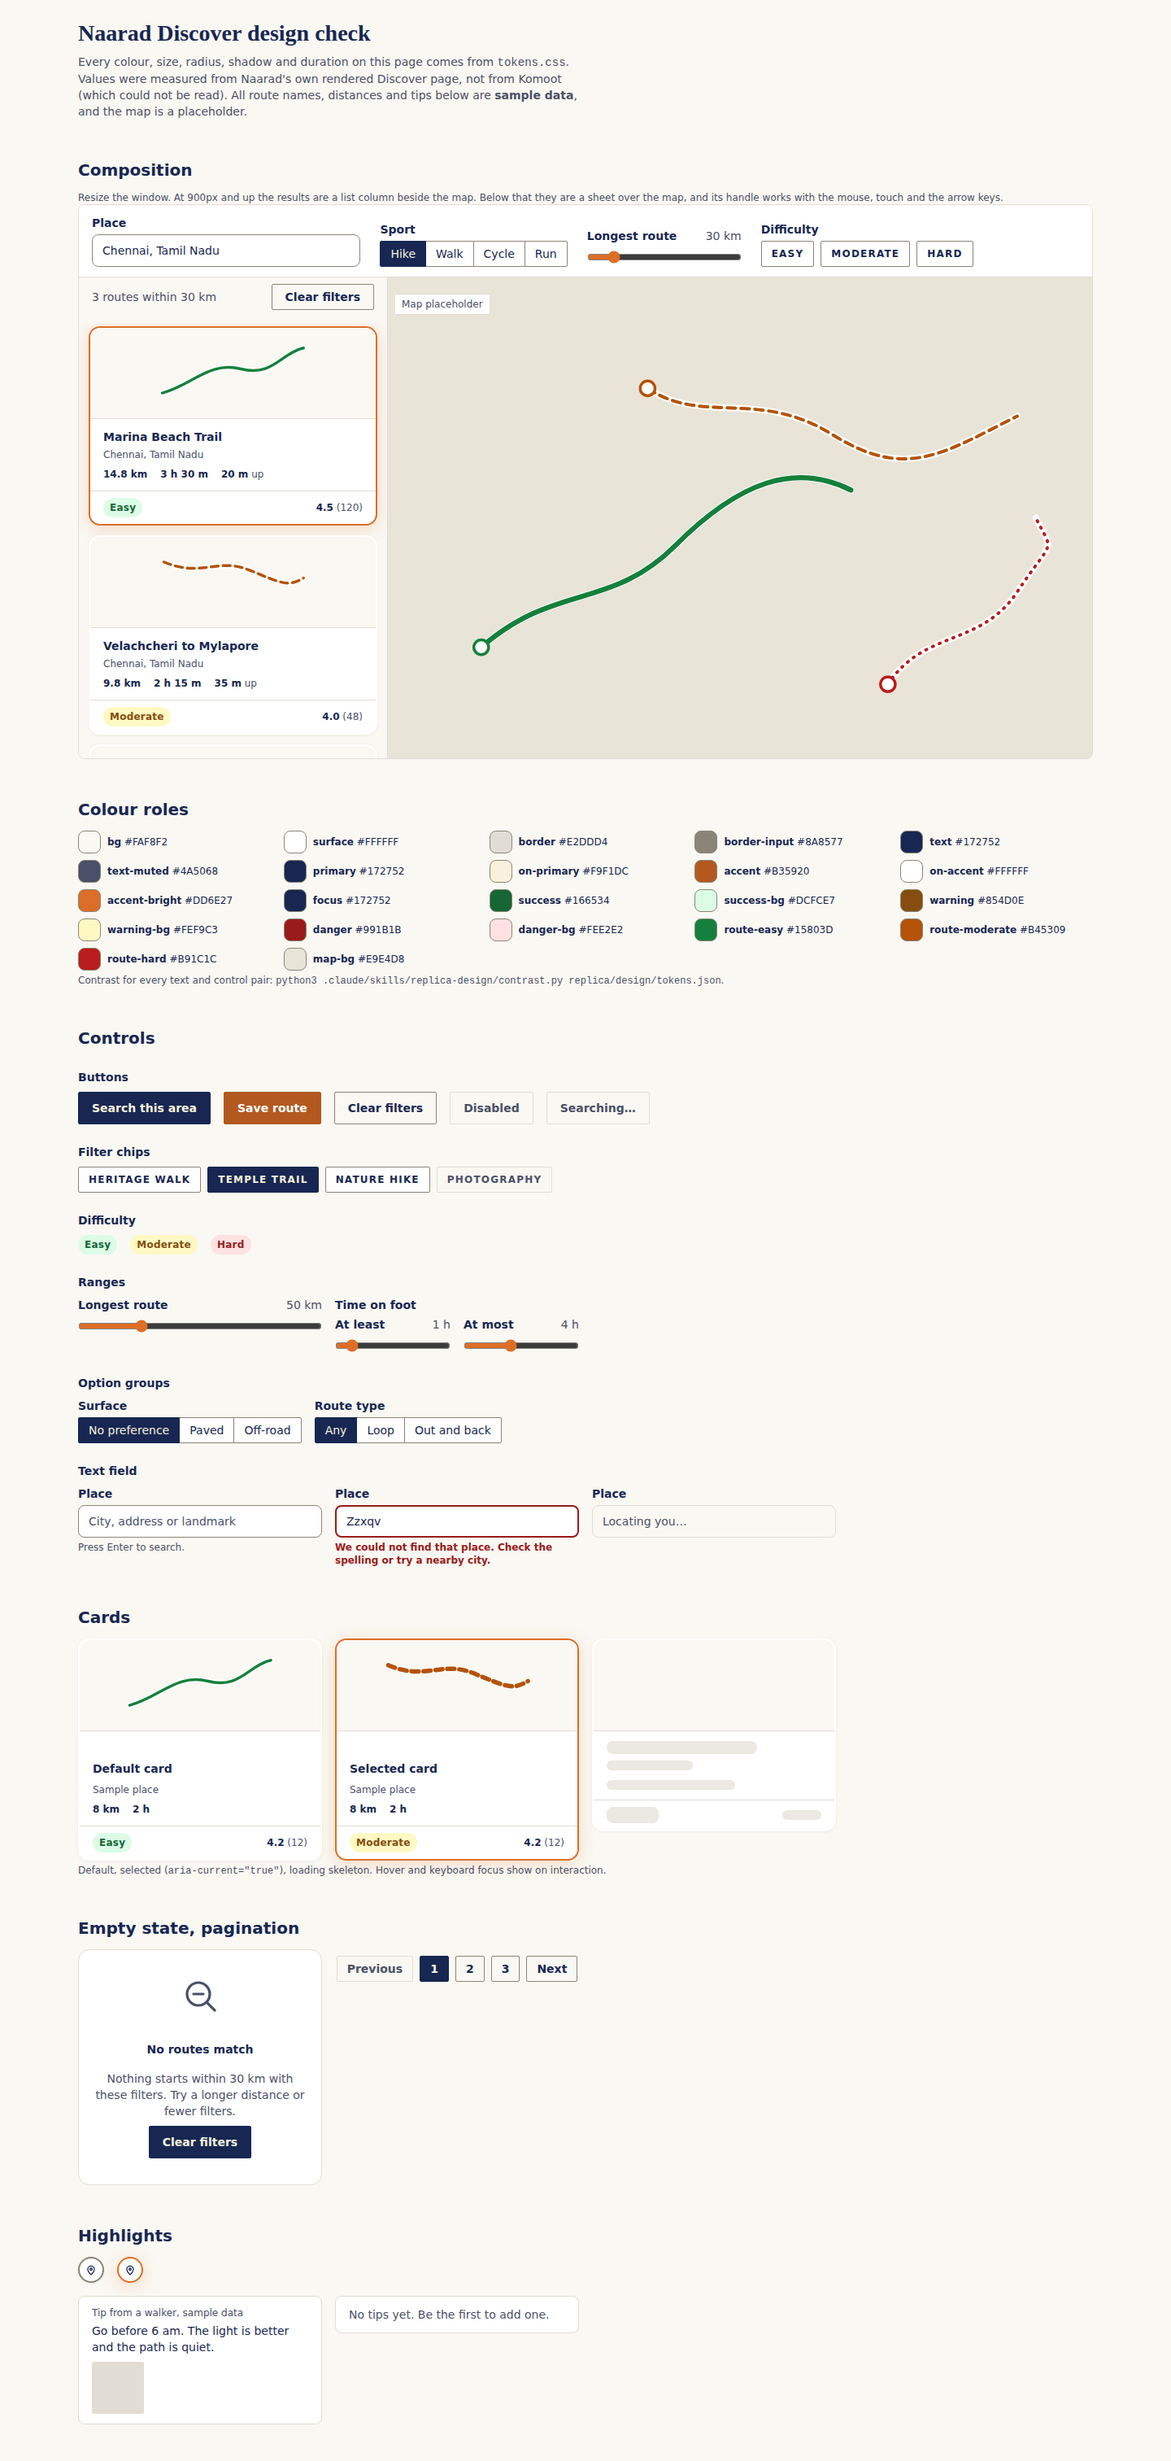
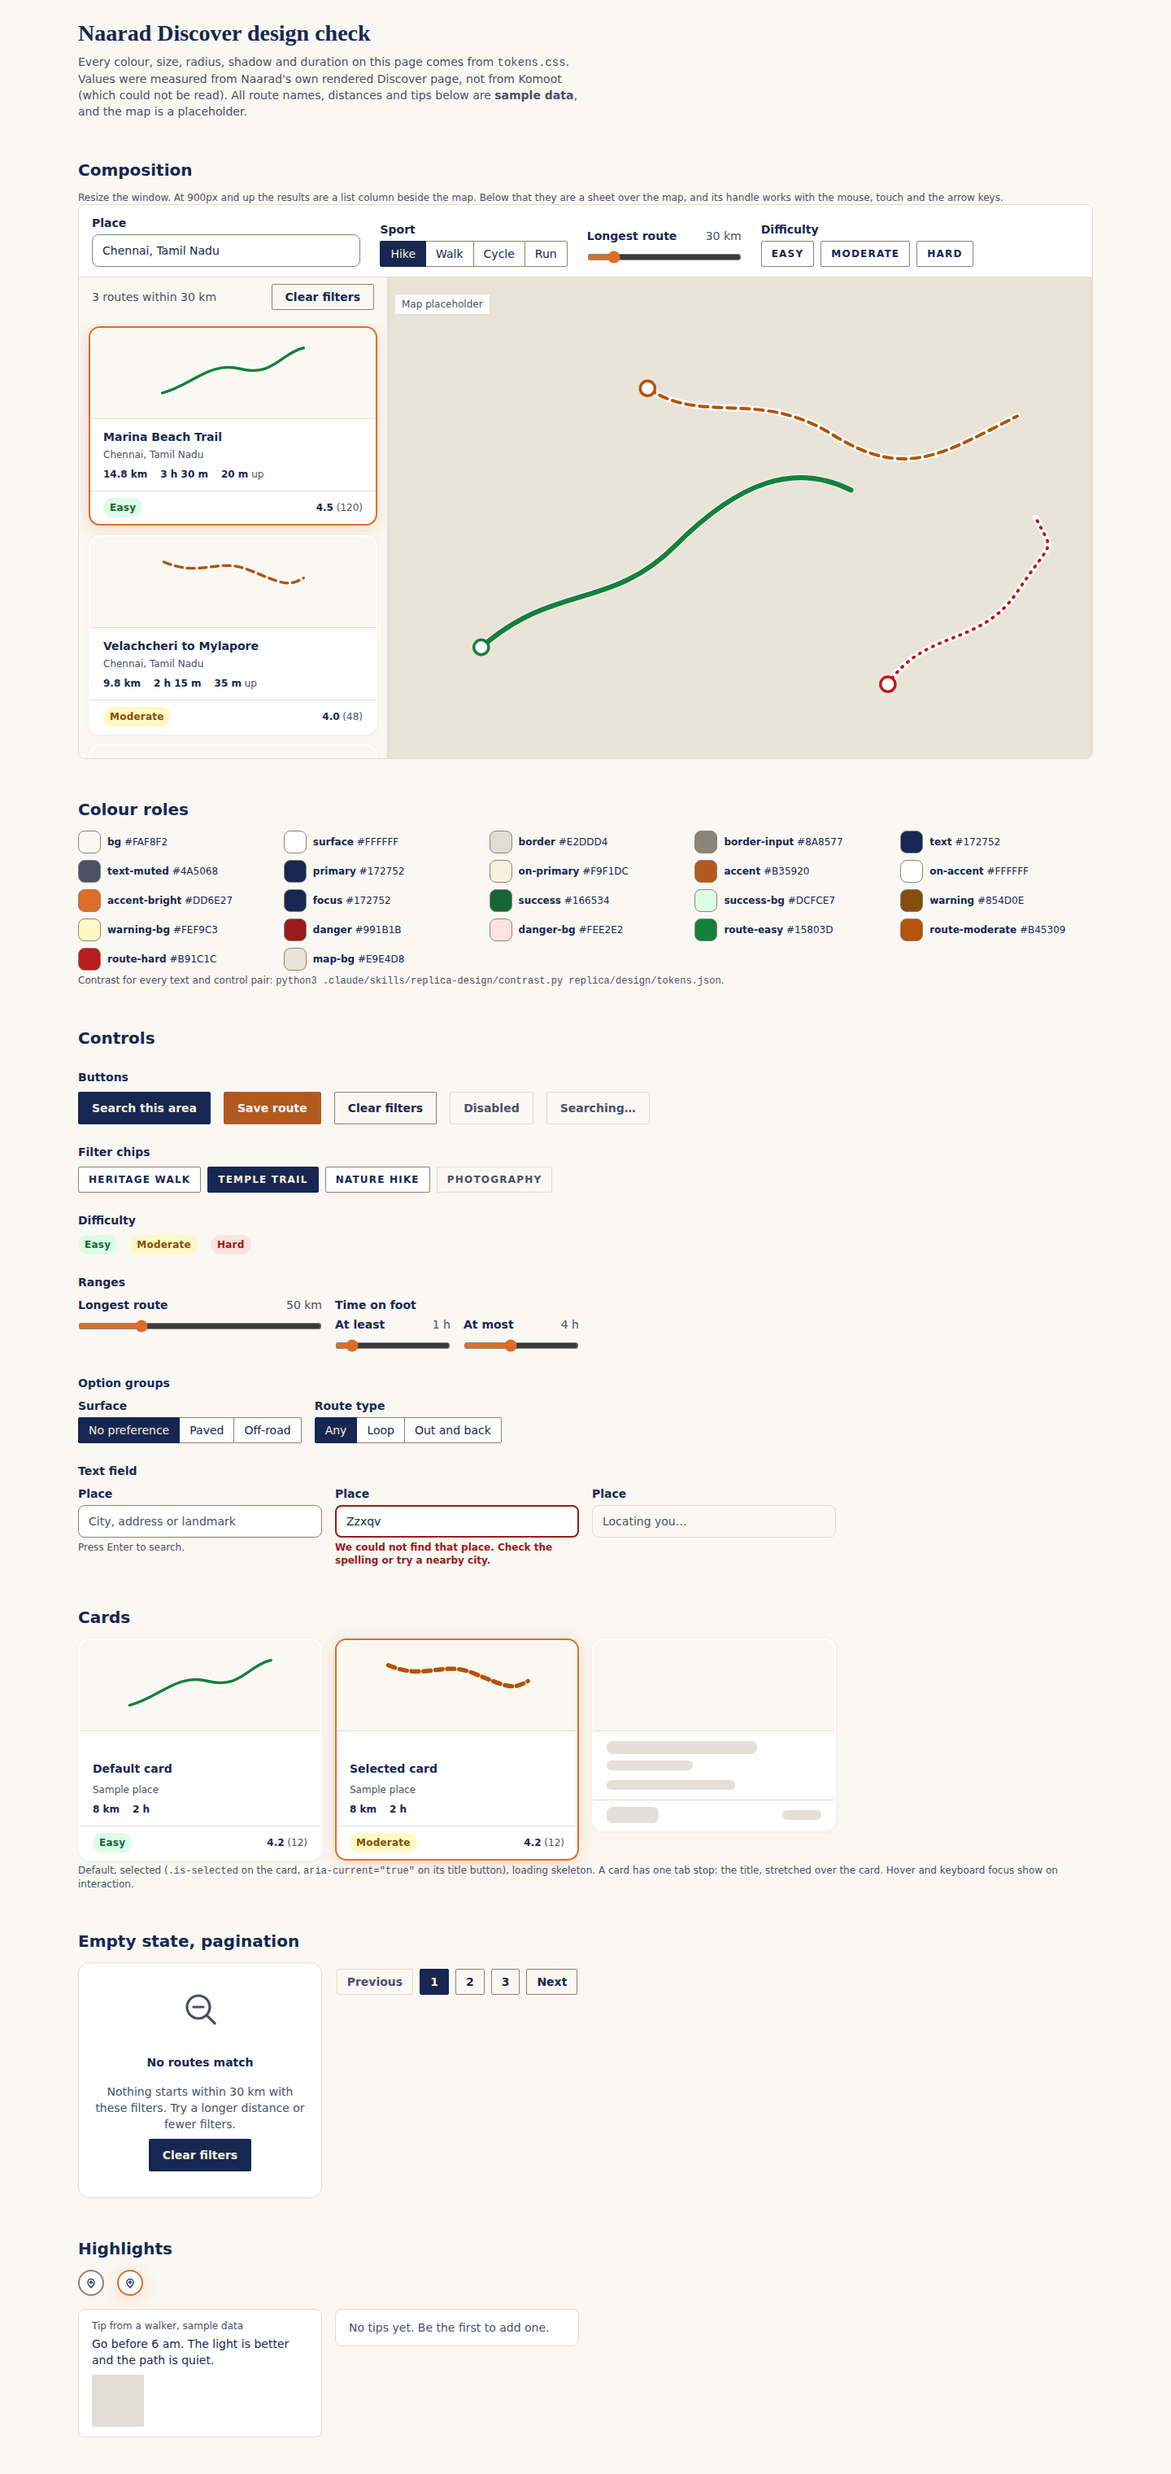
build: shell - tokens and primitives move to discover/
The site loads these, so they leave the planning folder. build-tokens.py now
writes discover/tokens.css. Cards become one stretched action (a single tab
stop, ring drawn inside the card) and the map gets start markers and an
unknown-difficulty line. Design check still passes.

Claude-Session: https://claude.ai/code/session_01GnJiiEcyrD9HdvzKNfCLAo

diff --git a/replica/design/preview.html b/replica/design/preview.html
@@ -7,8 +7,8 @@
 <!-- Not part of the site. Open locally. Fonts load from Google Fonts when online; offline it falls back to the system sans. -->
 <link rel="preconnect" href="https://fonts.googleapis.com">
 <link rel="stylesheet" href="https://fonts.googleapis.com/css2?family=Inter:wght@400;600;700&family=Playfair+Display:wght@700&display=swap">
-<link rel="stylesheet" href="tokens.css">
-<link rel="stylesheet" href="primitives.css">
+<link rel="stylesheet" href="../../discover/tokens.css">
+<link rel="stylesheet" href="../../discover/primitives.css">
 <style>
   /* Page chrome for this preview only. Not a component. */
   body { margin: 0; background: var(--color-bg); color: var(--color-text); font: var(--type-base); font-family: var(--font-sans); }
@@ -99,39 +99,39 @@
           <button class="nd-btn" type="button" style="min-height: var(--size-control-sm);">Clear filters</button>
         </div>
         <div class="nd-sheet__list">
-          <a class="nd-card" href="#" aria-current="true">
+          <article class="nd-card is-selected">
             <div class="nd-card__media" aria-hidden="true">
               <svg viewBox="0 0 200 90" fill="none"><path class="route-line route-line--casing" d="M12 70 C 50 60, 70 30, 110 40 S 160 20, 188 14"/><path class="route-line route-line--easy" d="M12 70 C 50 60, 70 30, 110 40 S 160 20, 188 14"/></svg>
             </div>
             <div class="nd-card__body">
-              <h4 class="nd-card__title">Marina Beach Trail</h4>
+              <h4 class="nd-card__title"><button type="button" class="nd-card__link" aria-current="true">Marina Beach Trail</button></h4>
               <p class="nd-card__meta">Chennai, Tamil Nadu</p>
               <ul class="nd-card__stats"><li><strong>14.8 km</strong></li><li><strong>3 h 30 m</strong></li><li><strong>20 m</strong> up</li></ul>
             </div>
             <div class="nd-card__foot"><span class="nd-badge nd-badge--easy">Easy</span><span><strong>4.5</strong> (120)</span></div>
-          </a>
-          <a class="nd-card" href="#">
+          </article>
+          <article class="nd-card">
             <div class="nd-card__media" aria-hidden="true">
               <svg viewBox="0 0 200 90" fill="none"><path class="route-line route-line--casing" d="M14 20 C 60 40, 80 14, 120 30 S 168 52, 188 40"/><path class="route-line route-line--moderate" d="M14 20 C 60 40, 80 14, 120 30 S 168 52, 188 40"/></svg>
             </div>
             <div class="nd-card__body">
-              <h4 class="nd-card__title">Velachcheri to Mylapore</h4>
+              <h4 class="nd-card__title"><button type="button" class="nd-card__link">Velachcheri to Mylapore</button></h4>
               <p class="nd-card__meta">Chennai, Tamil Nadu</p>
               <ul class="nd-card__stats"><li><strong>9.8 km</strong></li><li><strong>2 h 15 m</strong></li><li><strong>35 m</strong> up</li></ul>
             </div>
             <div class="nd-card__foot"><span class="nd-badge nd-badge--moderate">Moderate</span><span><strong>4.0</strong> (48)</span></div>
-          </a>
-          <a class="nd-card" href="#">
+          </article>
+          <article class="nd-card">
             <div class="nd-card__media" aria-hidden="true">
               <svg viewBox="0 0 200 90" fill="none"><path class="route-line route-line--casing" d="M16 74 C 60 70, 70 40, 108 56 S 150 78, 186 30"/><path class="route-line route-line--hard" d="M16 74 C 60 70, 70 40, 108 56 S 150 78, 186 30"/></svg>
             </div>
             <div class="nd-card__body">
-              <h4 class="nd-card__title">Coorg Plantation Hike</h4>
+              <h4 class="nd-card__title"><button type="button" class="nd-card__link">Coorg Plantation Hike</button></h4>
               <p class="nd-card__meta">Coorg, Karnataka</p>
               <ul class="nd-card__stats"><li><strong>12.2 km</strong></li><li><strong>5 h</strong></li><li><strong>420 m</strong> up</li></ul>
             </div>
             <div class="nd-card__foot"><span class="nd-badge nd-badge--hard">Hard</span><span><strong>4.8</strong> (31)</span></div>
-          </a>
+          </article>
         </div>
       </section>
     </div>
@@ -209,23 +209,23 @@
 
   <h2>Cards</h2>
   <div class="grid">
-    <a class="nd-card" href="#">
+    <article class="nd-card">
       <div class="nd-card__media" aria-hidden="true"><svg viewBox="0 0 200 90" fill="none"><path class="route-line route-line--casing" d="M12 70 C 50 60, 70 30, 110 40 S 160 20, 188 14"/><path class="route-line route-line--easy" d="M12 70 C 50 60, 70 30, 110 40 S 160 20, 188 14"/></svg></div>
-      <div class="nd-card__body"><h3 class="nd-card__title">Default card</h3><p class="nd-card__meta">Sample place</p><ul class="nd-card__stats"><li><strong>8 km</strong></li><li><strong>2 h</strong></li></ul></div>
+      <div class="nd-card__body"><h3 class="nd-card__title"><button type="button" class="nd-card__link">Default card</button></h3><p class="nd-card__meta">Sample place</p><ul class="nd-card__stats"><li><strong>8 km</strong></li><li><strong>2 h</strong></li></ul></div>
       <div class="nd-card__foot"><span class="nd-badge nd-badge--easy">Easy</span><span><strong>4.2</strong> (12)</span></div>
-    </a>
-    <a class="nd-card" href="#" aria-current="true">
+    </article>
+    <article class="nd-card is-selected">
       <div class="nd-card__media" aria-hidden="true"><svg viewBox="0 0 200 90" fill="none"><path class="route-line route-line--casing" d="M14 20 C 60 40, 80 14, 120 30 S 168 52, 188 40"/><path class="route-line route-line--moderate is-selected" d="M14 20 C 60 40, 80 14, 120 30 S 168 52, 188 40"/></svg></div>
-      <div class="nd-card__body"><h3 class="nd-card__title">Selected card</h3><p class="nd-card__meta">Sample place</p><ul class="nd-card__stats"><li><strong>8 km</strong></li><li><strong>2 h</strong></li></ul></div>
+      <div class="nd-card__body"><h3 class="nd-card__title"><button type="button" class="nd-card__link" aria-current="true">Selected card</button></h3><p class="nd-card__meta">Sample place</p><ul class="nd-card__stats"><li><strong>8 km</strong></li><li><strong>2 h</strong></li></ul></div>
       <div class="nd-card__foot"><span class="nd-badge nd-badge--moderate">Moderate</span><span><strong>4.2</strong> (12)</span></div>
-    </a>
+    </article>
     <div class="nd-card nd-card--skeleton" aria-hidden="true">
       <div class="nd-card__media"></div>
       <div class="nd-card__body"><span class="nd-skeleton" style="height: 16px; width: 70%;"></span><span class="nd-skeleton" style="height: 12px; width: 40%; margin: 8px 0 12px;"></span><span class="nd-skeleton" style="height: 12px; width: 60%;"></span></div>
       <div class="nd-card__foot"><span class="nd-skeleton" style="height: 20px; width: 64px;"></span><span class="nd-skeleton" style="height: 12px; width: 48px;"></span></div>
     </div>
   </div>
-  <p class="note">Default, selected (<code>aria-current="true"</code>), loading skeleton. Hover and keyboard focus show on interaction.</p>
+  <p class="note">Default, selected (<code>.is-selected</code> on the card, <code>aria-current="true"</code> on its title button), loading skeleton. A card has one tab stop: the title, stretched over the card. Hover and keyboard focus show on interaction.</p>
 
   <h2>Empty state, pagination</h2>
   <div class="grid">

diff --git a/discover/primitives.css b/discover/primitives.css
@@ -1,8 +1,7 @@
 /* Naarad Discover primitives. Built on tokens.css (load that first).
    Every colour, size, radius, shadow and duration comes from a token.
-   Class names are prefixed nd- so they cannot collide with the live site's
-   .disc-* and .rt-* rules. Not wired into index.html yet: that is replica-build.
-   Specs for each component are in components.md. */
+   Class names are prefixed nd- so they cannot collide with the rest of the
+   site's CSS. Specs for each component are in replica/design/components.md. */
 
 .nd,
 .nd * { box-sizing: border-box; }
@@ -150,6 +149,7 @@
 
 /* ---------- Tour card ---------- */
 .nd-card {
+  position: relative;
   display: block;
   color: inherit;
   text-decoration: none;
@@ -163,7 +163,7 @@
               transform var(--motion-base) var(--motion-ease);
 }
 .nd-card:hover { border-color: var(--color-primary); box-shadow: var(--shadow-card-hover); transform: translateY(-1px); }
-.nd-card[aria-current="true"] { border-color: var(--color-accent-bright); box-shadow: var(--shadow-card-selected); }
+.nd-card.is-selected { border-color: var(--color-accent-bright); box-shadow: var(--shadow-card-selected); }
 .nd-card__media {
   height: 112px;
   background: var(--color-bg);
@@ -175,6 +175,15 @@
 .nd-card__media svg { width: 88%; height: 80%; }
 .nd-card__body { padding: var(--space-12) var(--space-16); }
 .nd-card__title { margin: 0; font: var(--type-card-title); }
+/* The one primary action of a card: the title, stretched over the whole card so a
+   click anywhere selects it and the card is a single tab stop. */
+.nd-card__link { font: inherit; color: inherit; text-align: left; text-decoration: none; background: none; border: 0; padding: 0; margin: 0; cursor: pointer; }
+.nd-card__link::after { content: ""; position: absolute; inset: 0; }
+.nd .nd-card__link:focus-visible { outline: none; }
+/* The ring sits inside the card: the card clips anything outside its edge. */
+.nd .nd-card__link:focus-visible::after { outline: 3px solid var(--color-focus); outline-offset: -3px; border-radius: var(--radius-lg); }
+/* A second, separate action sits above the stretched one. */
+.nd-card__more { position: relative; z-index: 1; font: var(--type-xs); font-weight: 600; color: var(--color-accent); background: none; border: 0; padding: var(--space-4) 0; cursor: pointer; text-decoration: underline; text-underline-offset: 2px; }
 .nd-card__meta { margin: var(--space-4) 0 var(--space-8); font: var(--type-xs); color: var(--color-text-muted); }
 .nd-card__stats { display: flex; flex-wrap: wrap; gap: var(--space-4) var(--space-16); margin: 0; padding: 0; list-style: none; font: var(--type-xs); color: var(--color-text-muted); }
 .nd-card__stats strong { font-weight: 600; color: var(--color-text); }
@@ -233,7 +242,8 @@
 .nd-empty p { margin: 0; max-width: 32ch; color: var(--color-text-muted); }
 
 /* ---------- Map ---------- */
-.nd-map { position: relative; background: var(--color-map-bg); overflow: hidden; min-height: 240px; }
+.nd-map { position: relative; z-index: 0; isolation: isolate; background: var(--color-map-bg); overflow: hidden; min-height: 240px; }
+.nd-map__canvas { position: absolute; inset: 0; background: var(--color-map-bg); }
 .nd-map svg { display: block; width: 100%; height: 100%; }
 .nd-map__note { position: absolute; left: var(--space-8); top: var(--space-8); padding: var(--space-4) var(--space-8); font: var(--type-xs); color: var(--color-text-muted); background: var(--color-surface); border: 1px solid var(--color-border); border-radius: var(--radius-sharp); }
 .route-line { fill: none; stroke-linecap: round; stroke-linejoin: round; }
@@ -241,7 +251,15 @@
 .route-line--easy     { stroke: var(--color-route-easy);     stroke-width: 3.5; }
 .route-line--moderate { stroke: var(--color-route-moderate); stroke-width: 3.5; stroke-dasharray: 9 6; }
 .route-line--hard     { stroke: var(--color-route-hard);     stroke-width: 3.5; stroke-dasharray: 1 7; }
+.route-line--unknown  { stroke: var(--color-primary);        stroke-width: 3.5; }
 .route-line.is-selected { stroke-width: 5.5; }
+/* Start of a route on the map (a Leaflet circle marker). Ring colour follows difficulty. */
+.nd-start { fill: var(--color-surface); fill-opacity: 1; stroke-width: 3; cursor: pointer; }
+.nd-start--easy     { stroke: var(--color-route-easy); }
+.nd-start--moderate { stroke: var(--color-route-moderate); }
+.nd-start--hard     { stroke: var(--color-route-hard); }
+.nd-start--unknown  { stroke: var(--color-primary); }
+.nd-start.is-selected { stroke-width: 5; }
 
 /* ---------- Highlight marker, tip ---------- */
 .nd-marker {
@@ -269,7 +287,7 @@
 .nd-tip__photos .nd-photo { width: 64px; height: 64px; object-fit: cover; border-radius: var(--radius-sharp); background: var(--color-border); }
 
 /* ---------- Discover layout ---------- */
-.nd-discover { position: relative; display: grid; grid-template-rows: auto 1fr; min-height: 0; }
+.nd-discover { position: relative; display: grid; grid-template-rows: auto 1fr; min-height: 0; height: 100%; }
 .nd-filterbar { display: flex; flex-wrap: wrap; align-items: flex-end; gap: var(--space-16) var(--space-24); padding: var(--space-12) var(--space-16); background: var(--color-surface); border-bottom: 1px solid var(--color-border); }
 .nd-split { position: relative; display: grid; min-height: 0; }
 

diff --git a/replica/design/build-tokens.py b/replica/design/build-tokens.py
@@ -1,10 +1,11 @@
 #!/usr/bin/env python3
-"""Generate tokens.css from tokens.json. Standard library only.
+"""Generate discover/tokens.css from replica/design/tokens.json. Standard library only.
 
     python3 replica/design/build-tokens.py            # write tokens.css
     python3 replica/design/build-tokens.py --check    # exit 1 if tokens.css is stale
 
 tokens.json is the source of truth. Edit it, rerun this, commit both.
+tokens.css lives in discover/ because the site loads it.
 Custom property names are prefixed by kind (--color-, --type-, --space-...) and
 do not collide with the site's existing short names (--navy, --or, --bd...).
 """
@@ -15,7 +16,7 @@ import sys
 
 HERE = os.path.dirname(os.path.abspath(__file__))
 SRC = os.path.join(HERE, "tokens.json")
-OUT = os.path.join(HERE, "tokens.css")
+OUT = os.path.join(HERE, "..", "..", "discover", "tokens.css")
 
 
 def build(tokens):
@@ -95,7 +96,7 @@ def main():
         return 0
     with open(OUT, "w", encoding="utf-8") as fh:
         fh.write(css)
-    print("wrote %s" % os.path.relpath(OUT))
+    print("wrote %s" % os.path.relpath(os.path.normpath(OUT)))
     return 0
 
 

diff --git a/replica/design/components.md b/replica/design/components.md
@@ -1,7 +1,8 @@
 # Components: Naarad Discover
 
 Specs for every component in `replica/recon.md`, plus the ones the real page
-needed. Values are token names from `tokens.json`; pixels are in `tokens.css`.
+needed. Values are token names from `replica/design/tokens.json`; pixels are in
+`discover/tokens.css` (generated). The components are in `discover/primitives.css`.
 
 **Where these come from.** Komoot's pages could not be read and `replica/screens/`
 is empty, so **nothing here records how Komoot's components look.** The recon
@@ -11,12 +12,12 @@ WCAG 2.2 AA. The recon marks the component list as unconfirmed, so this list
 may grow once the real pages are read.
 
 **Stack note.** Naarad is a static site with no Tailwind, so there is no Tailwind
-mapping. `tokens.css` is the mapping: custom properties named `--color-*`,
+mapping. `discover/tokens.css` is the mapping: custom properties named `--color-*`,
 `--type-*`, `--space-*`, `--radius-*`, `--shadow-*`, `--motion-*`, `--size-*`.
 Classes in `primitives.css` are prefixed `nd-` so they cannot collide with the
 live `.disc-*` and `.rt-*` rules.
 
-**Status key.** *built* = in `primitives.css`, shown in `preview.html`, passes
+**Status key.** *built* = in `discover/primitives.css`, shown in `replica/design/preview.html`, passes
 `check-preview.js`. *spec only* = specified, not built. *live* = the class that
 exists in `index.html` today.
 
@@ -144,9 +145,12 @@ Tour card                           [built]  live: .rt-card
   states    default, hover (border primary, shadow card-hover, 1px lift), selected (border accent-bright,
             shadow card-selected), focus-visible, loading (skeleton, same footprint), long title (wraps, no clip)
   tokens    bg surface, radius lg, shadow card, title type card-title, meta and stats type xs/text-muted
-  a11y      one <a href> for the whole card, so one tab stop. Title is a heading, one level under the
-            list's heading. The selected card has aria-current="true". The route silhouette in the media
-            area is aria-hidden: the stats say it all in text.
+  a11y      one tab stop: the title is a <button> (or a link, where a detail page exists) inside the
+            heading, stretched over the whole card, so a click anywhere selects it. A second action,
+            such as "Open route page", sits above it as its own button. Title is a heading one level
+            under the list's heading. The selected card has .is-selected and its title button has
+            aria-current="true". The focus ring is drawn inside the card because the card clips its
+            edge. The route silhouette in the media area is aria-hidden: the stats say it in text.
   used on   S01
 ```
 
